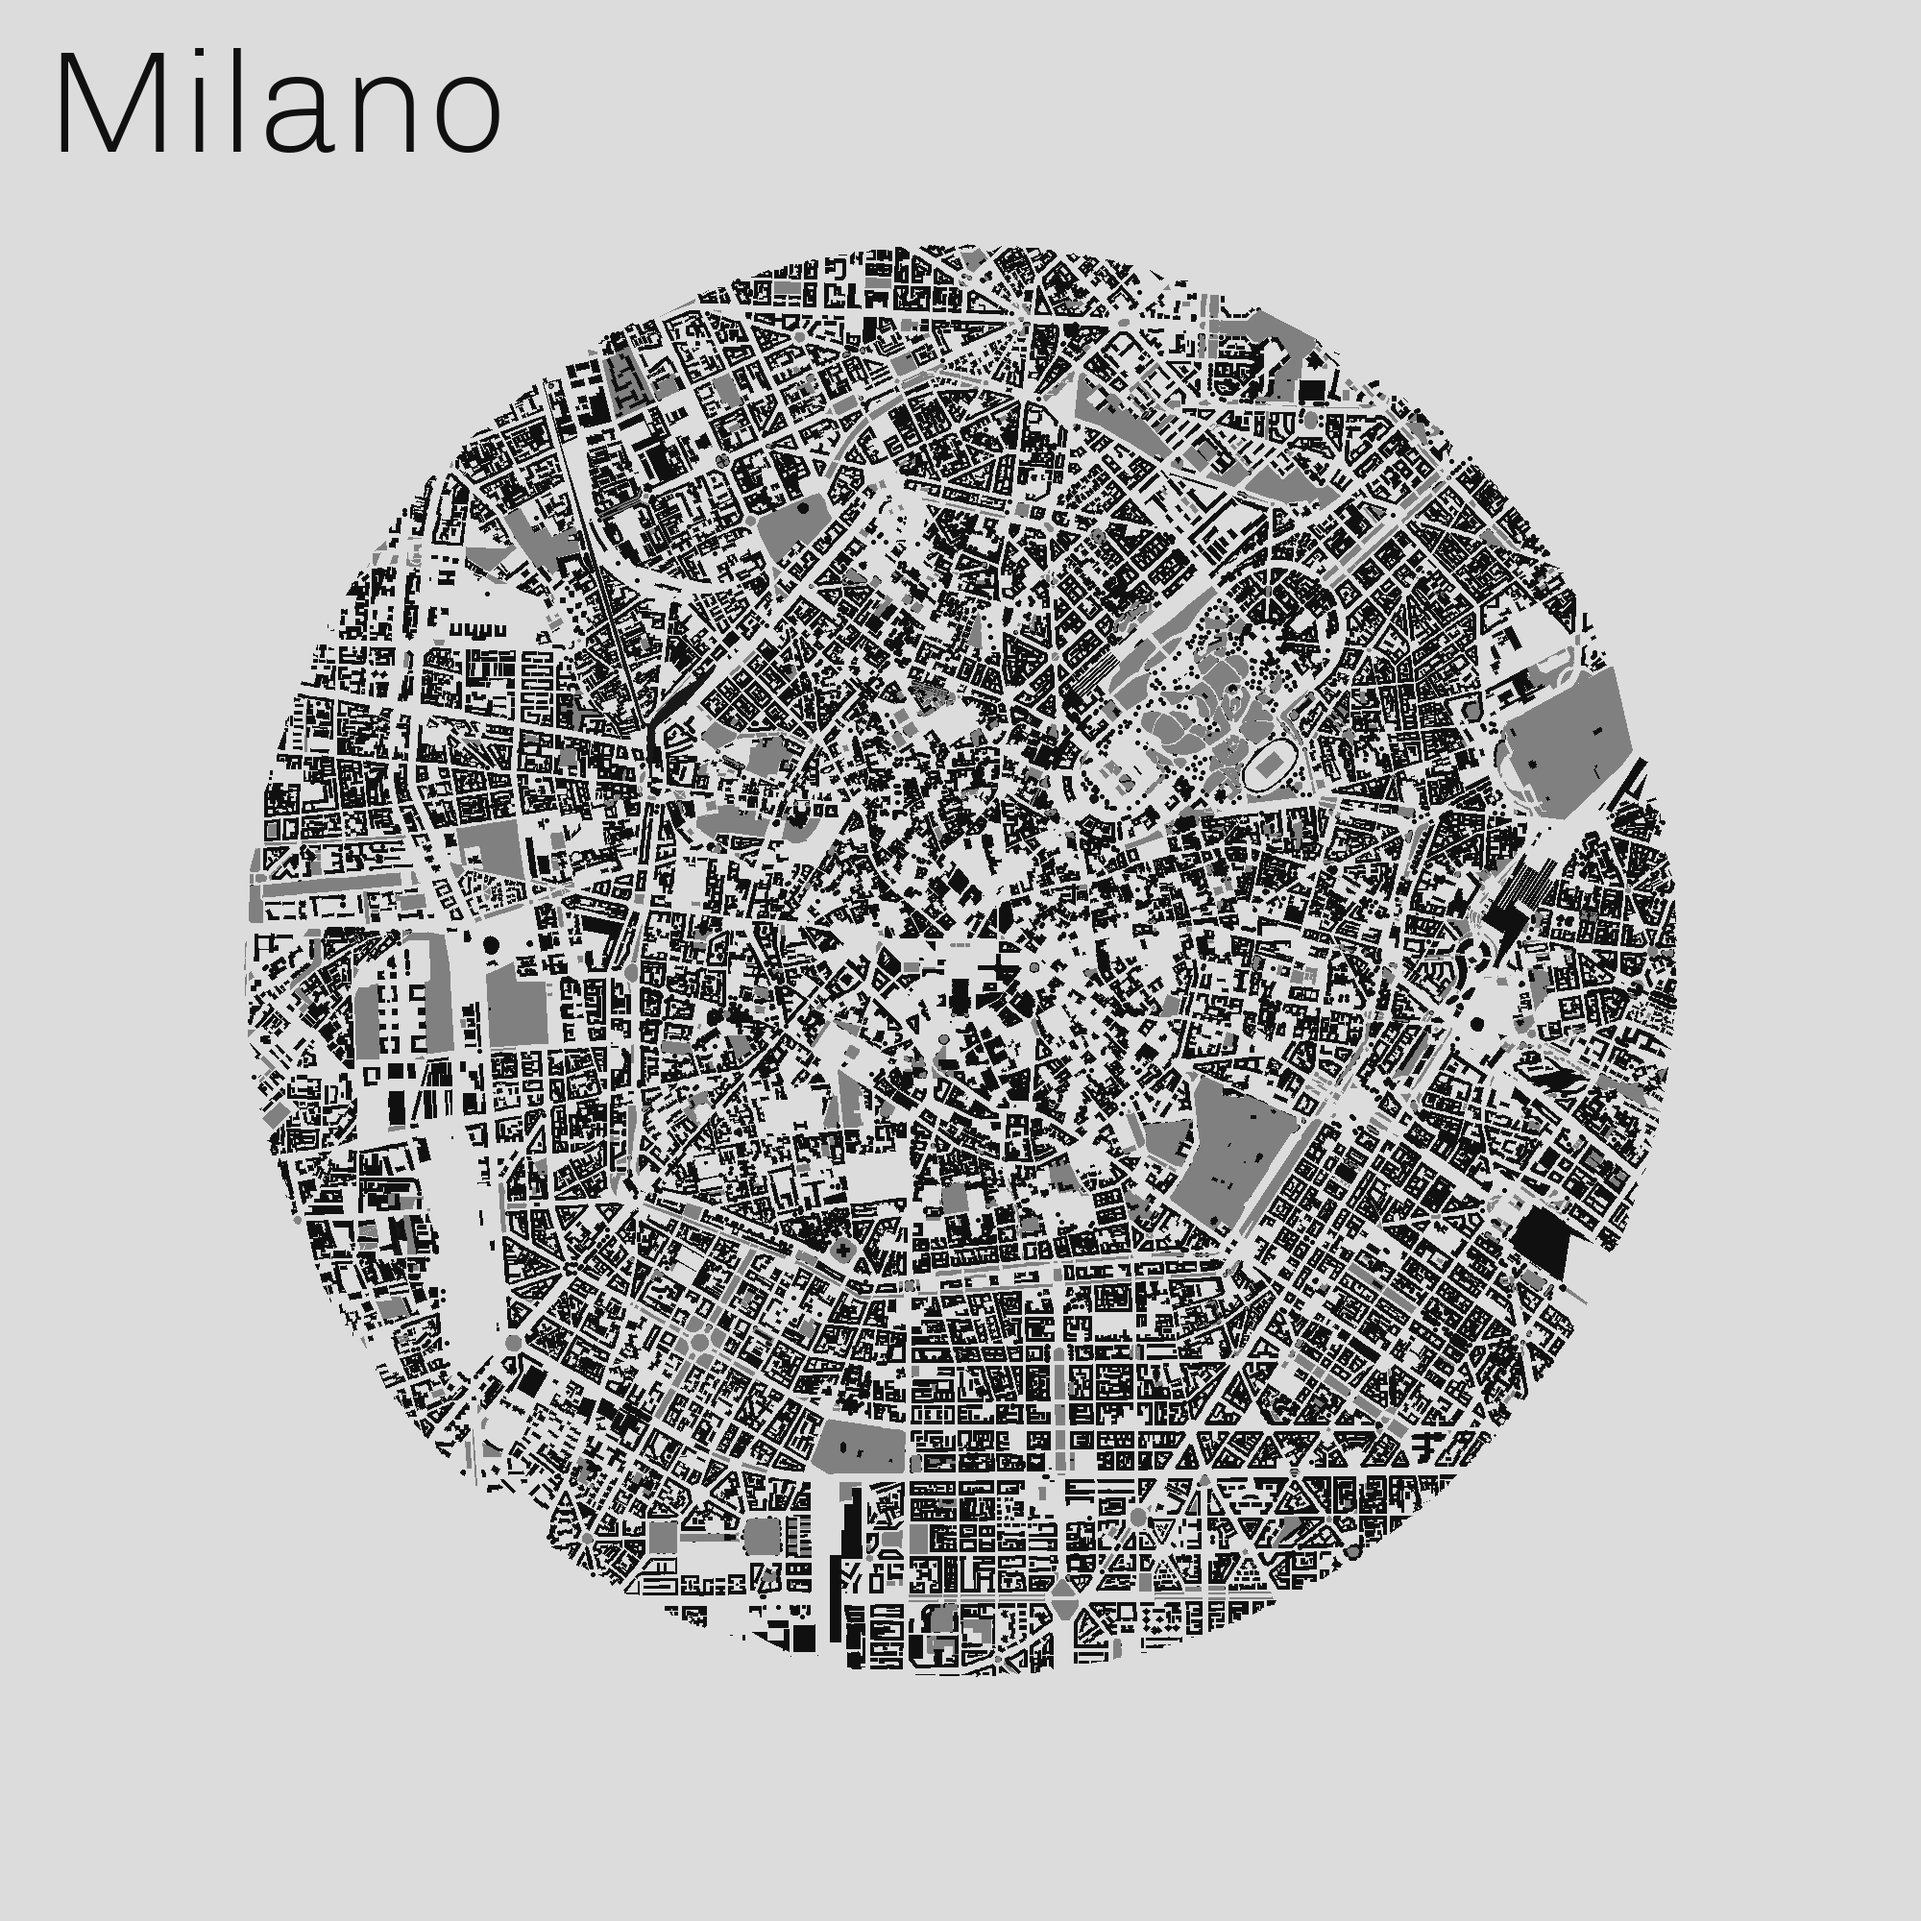
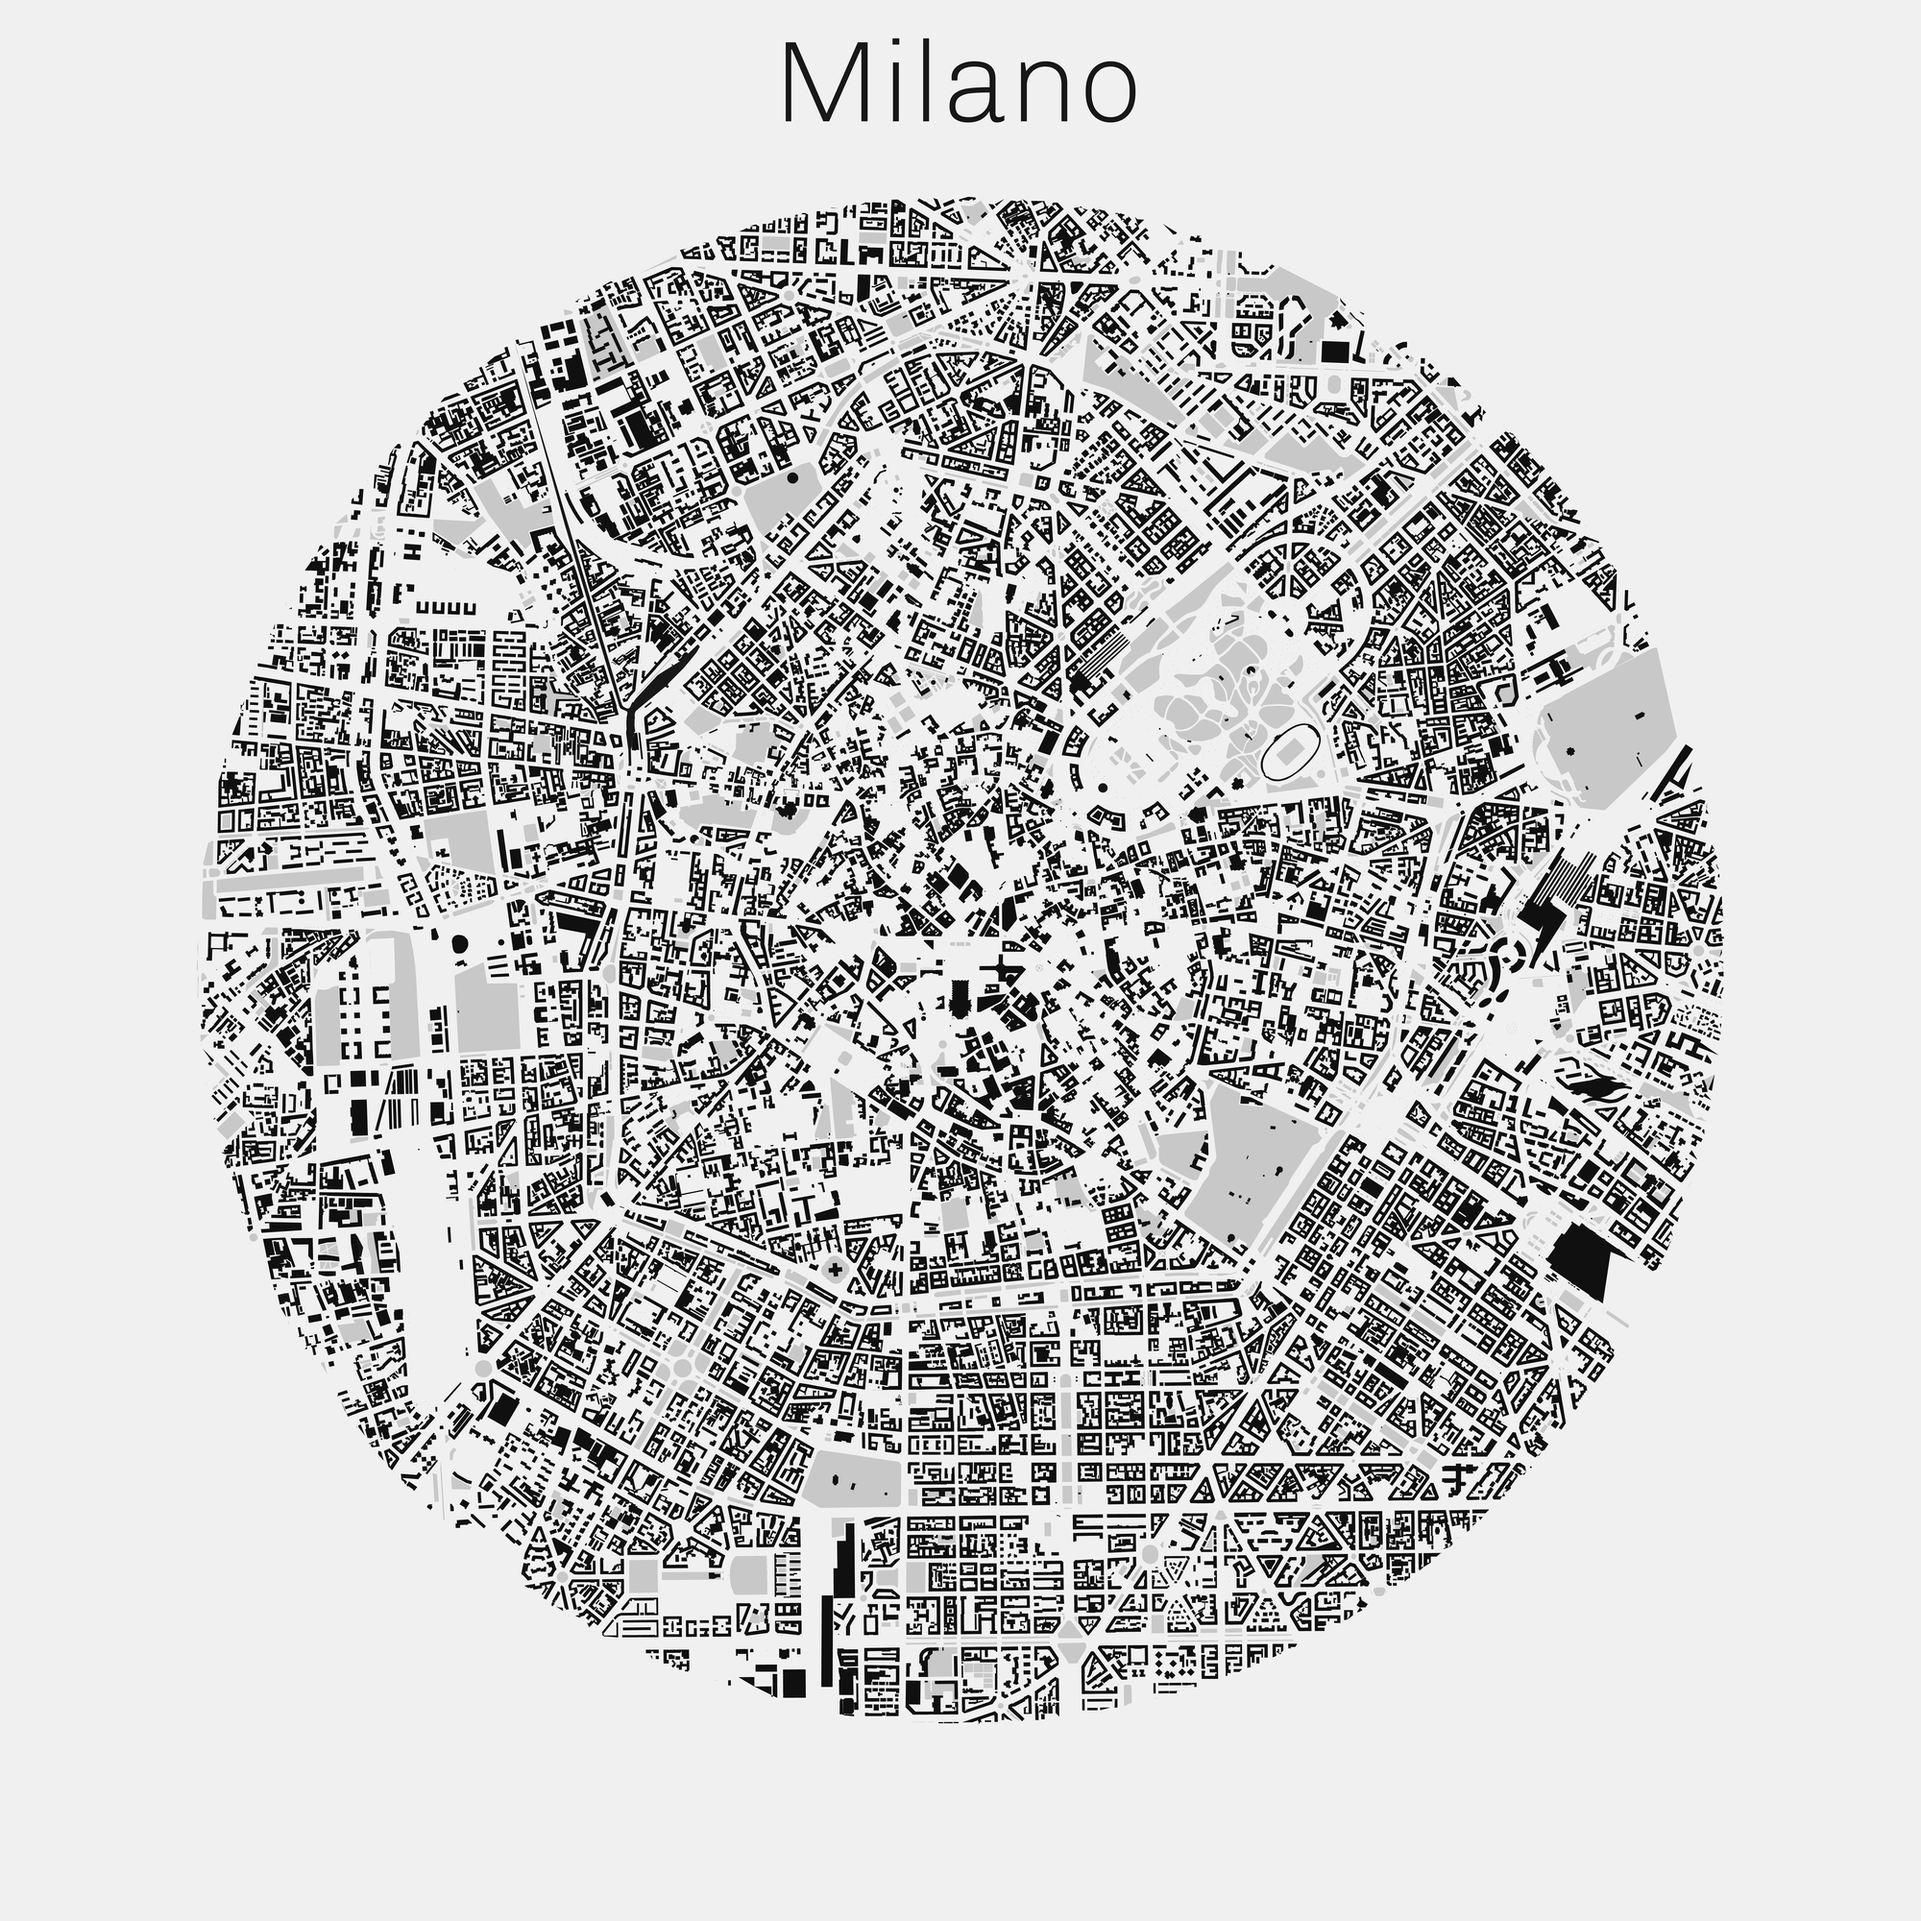
added supersampling, moved title

Changed region(s): [[0.093, 0.093, 0.899, 0.899], [0.031, 0.031, 0.279, 0.093], [0.403, 0.031, 0.589, 0.062]]

diff --git a/image.py b/image.py
@@ -2,12 +2,20 @@ from PIL import Image, ImageDraw, ImageFont
 
 
 class ImageCreator:
-    def __init__(self, width: int = 2000, height: int = 2000, scl: float = 0.75):
-        self._sizes = (width, height)
+    def __init__(
+        self,
+        width: int = 2000,
+        height: int = 2000,
+        scl: float = 0.8,
+        supersample: float = 16,
+    ):
+
+        self._supersample = supersample
+        self._sizes = (width * self._supersample, height * self._supersample)
         self._scl = scl
         self._border = tuple(s * (1 - self._scl) / 2 for s in self._sizes)
 
-        self._image = Image.new("RGB", self._sizes, (220, 220, 220))
+        self._image = Image.new("RGB", self._sizes, (240, 240, 240))
         self._draw = ImageDraw.Draw(self._image)
 
     def _drawCircle(
@@ -81,26 +89,29 @@ class ImageCreator:
     def _relativeToAbsolute(self, rel: tuple[float, float]) -> tuple[float, float]:
         if isinstance(rel, tuple):
             return tuple(
-                self._border[x] + rel[x] * self._sizes[x] * self._scl for x in [0, 1]
+                self._border[x] + rel[x] * self._sizes[x] * self._scl for x in range(2)
             )
 
         return list(
-            tuple(self._border[x] + r[x] * self._sizes[x] * self._scl for x in [0, 1])
+            tuple(self._border[x] + r[x] * self._sizes[x] * self._scl for x in range(2))
             for r in rel
         )
 
     def addTitle(self, text: str) -> None:
         size = int((1 - self._scl) * self._sizes[0] * 0.3)
-        pos = tuple(int((1 - self._scl) * self._sizes[x] * 0.1) for x in [0, 1])
+        dy = int((1 - self._scl) * self._sizes[1] * 0.1)
+        dx = self._sizes[0] // 2
+
         font = ImageFont.truetype("src/Chivo-Light.ttf", size)
-        fill = (16, 16, 16)
+        fill = (24, 24, 24)
 
         self._draw.text(
-            pos,
+            (dx, dy),
             text,
             fill=fill,
             font=font,
-            anchor="lt",
+            align="center",
+            anchor="mt",
         )
 
     def rotate(self, angle):
@@ -115,7 +126,9 @@ class ImageCreator:
         if filename[-4:] != ".png":
             filename += ".png"
 
-        self._image.save(filename, "PNG")
+        real_size = tuple(int(self._sizes[x] / self._supersample) for x in range(2))
+        out_img = self._image.resize(real_size, resample=Image.ANTIALIAS)
+        out_img.save(filename, "PNG")
 
     def drawTrees(self, pos: list[tuple[float, float]]) -> None:
         self._drawMultipleCircles(pos, 2, (16, 16, 16))
@@ -124,7 +137,7 @@ class ImageCreator:
         self._drawMultiplePoly(pos, (24, 24, 24))
 
     def drawParks(self, pos: list[tuple[float, float]]) -> None:
-        self._drawMultiplePoly(pos, (128, 128, 128))
+        self._drawMultiplePoly(pos, (200, 200, 200))
 
     def drawBuildings(self, pos: list[tuple[float, float]]) -> None:
         self._drawMultiplePoly(pos, (16, 16, 16))
